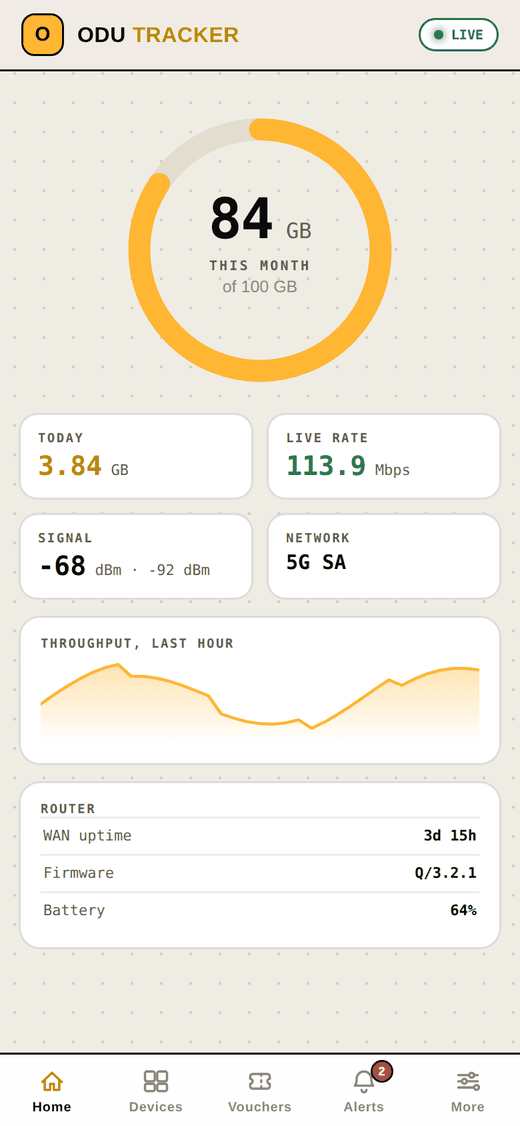
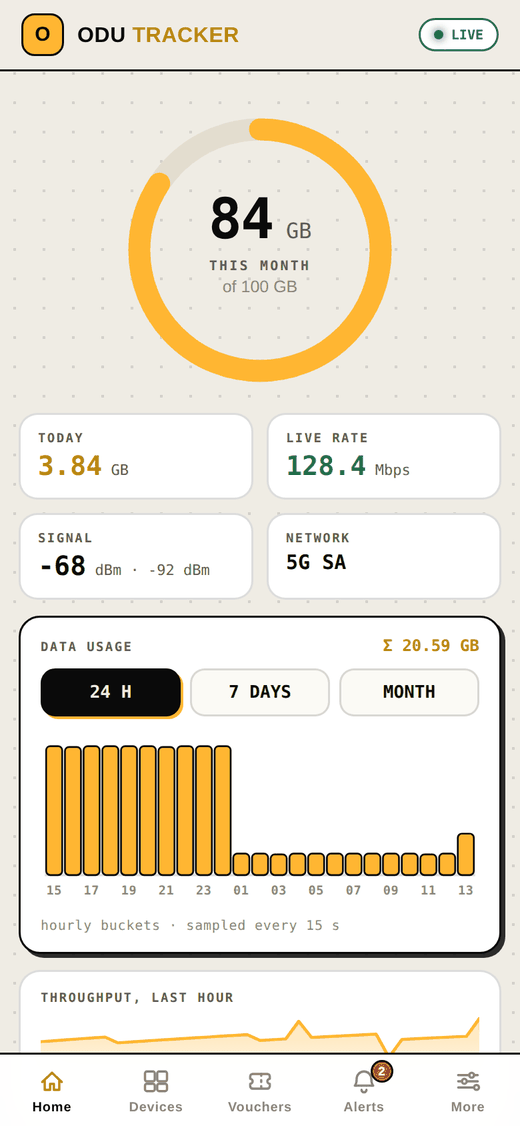
site: announce v1.3.3 + refreshed phone preview asset

Changed region(s): [[0.0308, 0.5595, 0.9846, 0.9636], [0.5846, 0.4041, 0.6462, 0.4352], [0.6769, 0.4041, 0.7077, 0.4352]]

diff --git a/site/index.html b/site/index.html
@@ -38,17 +38,17 @@
     <a href="#support">Support</a>
     <a class="gh" href="https://github.com/Ademileke12/odu-tracker" target="_blank" rel="noopener">GitHub ↗</a>
   </nav>
-  <span class="verchip" title="Latest release"><i class="dot"></i><span id="vertext">v1.3.2</span></span>
+  <span class="verchip" title="Latest release"><i class="dot"></i><span id="vertext">v1.3.3</span></span>
   <button class="mode-btn" id="modeBtn" title="Toggle light / dark" aria-label="Toggle theme"><span id="modeIco">☾</span></button>
   <a class="topbar-cta" href="#download">Get the app</a>
 </header>
 
 <!-- ================================================ release announcement -->
-<div class="newsbar" id="newsbar" data-rel="v1.3.2">
+<div class="newsbar" id="newsbar" data-rel="v1.3.3">
   <a class="newsbar-in" href="#whatsnew">
     <span class="newsbar-tag">NEW</span>
-    <b>v1.3.2 update</b>
-    <span class="newsbar-txt">phone app redesigned · light mode · 5 tabs · vouchers &amp; block from your pocket</span>
+    <b>v1.3.3 update</b>
+    <span class="newsbar-txt">usage charts land on the phone: 24 h, 7 days &amp; month, same numbers as the PC</span>
     <span class="newsbar-go">SEE WHAT'S NEW →</span>
   </a>
   <button class="newsbar-x" id="newsbarX" aria-label="Dismiss announcement">✕</button>
@@ -170,15 +170,23 @@
 
   <!-- ================================================== what's new -->
   <section id="whatsnew" class="section wn">
-    <p class="kicker reveal">// RELEASE NOTES · 30 OCT 2026 · UPDATED 03 NOV</p>
-    <h2 class="reveal">NEW IN <span class="hl">v1.3.2</span></h2>
+    <p class="kicker reveal">// RELEASE NOTES · 30 OCT 2026 · UPDATED 03 NOV · v1.3.3</p>
+    <h2 class="reveal">NEW IN <span class="hl">v1.3.3</span></h2>
     <p class="section-sub reveal">
-      v1.3.2 is a ground-up redesign of the phone app: a light, one hand dashboard that
-      finally carries the desktop's full feature set. Same never-kicked-off-Wi-Fi and
-      reboot-proof engine from v1.3.1, new skin, new powers.
+      v1.3.3 brings the usage ranges to the phone: daily, weekly and monthly bars
+      exactly like the PC dashboard. The v1.3.2 redesign below stays: light one-hand
+      dashboard, full desktop feature set, same never-kicked-off-Wi-Fi engine.
     </p>
 
     <div class="cards">
+      <article class="card reveal">
+        <div class="card-ico">▤</div>
+        <div class="wn-tag">NEW</div>
+        <h3>USAGE, ON THE PHONE</h3>
+        <p>Tap 24 H, 7 DAYS or MONTH on Home and get the same day-by-day data bars
+           the PC draws, from the same engine. Hourly buckets, GB totals, today's
+           partial hour included.</p>
+      </article>
       <article class="card reveal">
         <div class="card-ico">O</div>
         <div class="wn-tag">NEW</div>
@@ -224,8 +232,8 @@
     </div>
 
     <div class="wn-cta reveal">
-      <a class="btn btn-black" href="#download">⤓ GET v1.3.2 <small>free</small></a>
-      <a class="btn btn-white" href="https://github.com/Ademileke12/odu-tracker/releases/tag/v1.3.2" target="_blank" rel="noopener">FULL RELEASE NOTES ↗</a>
+      <a class="btn btn-black" href="#download">⤓ GET v1.3.3 <small>free</small></a>
+      <a class="btn btn-white" href="https://github.com/Ademileke12/odu-tracker/releases/tag/v1.3.3" target="_blank" rel="noopener">FULL RELEASE NOTES ↗</a>
       <span class="wn-meta">5 files · Windows · Linux · Android, same version everywhere</span>
     </div>
   </section>
@@ -236,7 +244,7 @@
     <h2 class="reveal">ONE ENGINE, <span class="hl">EVERY</span> SCREEN</h2>
     <p class="section-sub reveal">
       The desktop dashboard and the phone app pull from the same engine, so usage,
-      devices and alerts agree everywhere. This is the real v1.3.2 interface,
+      devices and alerts agree everywhere. This is the real v1.3.3 interface,
       captured live, exactly how it pans out on a laptop and a Redmi-class phone.
     </p>
 
@@ -257,7 +265,7 @@
           <span class="island"></span>
           <span class="pk long"></span><span class="pk"></span>
           <img src="assets/preview-phone.png" width="520" height="1126"
-               alt="ODU Tracker phone view: amber ring at 84 of 100 GB this month, today 3.84 GB, live rate 113.9 Mbps, 5G SA signal, throughput sparkline and bottom tab bar"
+               alt="ODU Tracker phone view: amber ring at 84 of 100 GB this month, today 3.84 GB, live rate 128.4 Mbps, 5G SA signal, data usage card with 24 h bars and bottom tab bar"
                loading="lazy">
         </div>
         <figcaption><span class="scr-tag">PHONE VIEW</span> inside every APK · 5 tabs, one thumb</figcaption>
@@ -381,7 +389,7 @@
         <circle cx="24" cy="26" r="3" fill="#0a0a0a"/>
       </svg>
       ODU<b>TRACKER</b>
-      <span class="verchip small"><i class="dot"></i><span class="footer-ver">v1.3.2</span></span>
+      <span class="verchip small"><i class="dot"></i><span class="footer-ver">v1.3.3</span></span>
     </div>
     <p>Created by <b>anakincoco</b> · <a href="mailto:srimpkoyonko@gmail.com">srimpkoyonko@gmail.com</a></p>
     <p class="footer-links">
